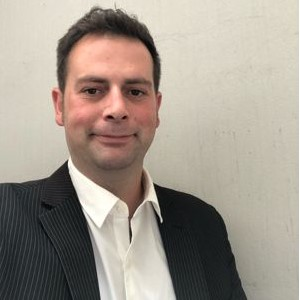
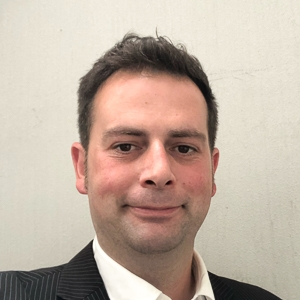
added staff photos, change date picker styles

diff --git a/style.css b/style.css
@@ -165,6 +165,7 @@ form.cart {
 
 h1.product_title.entry-title {
   font-weight: 600;
+  font-size: 2em;
 }
 
 /*
@@ -208,20 +209,6 @@ fieldset.wc-bookings-date-picker.wc-bookings-date-picker-booking.wc_bookings_fie
 
 .wc-bookings-booking-form fieldset input {
   width: 100%;
-}
-
-.wc-bookings-booking-form .block-picker li a.selected, .wc-bookings-booking-form .block-picker li:nth-child(odd) a:focus, .wc-bookings-booking-form .block-picker li:nth-child(odd) a:hover {
-  background: #76974d !important;
-}
-
-table.ui-datepicker-calendar {
-  border: 0;
-}
-
-.wc-bookings-booking-form .wc-bookings-booking-cost {
-  background: #76974d !important;
-  color: #fff;
-  margin: 0 .1px;
 }
 
 div.product-addon {
@@ -295,6 +282,7 @@ button.start-booking-button {
 
 .team img {
   border-radius: 50% 50% 50% 0;
+  border: 2px solid #3e1e00;
 }
 
 /* Checkout */
@@ -499,6 +487,9 @@ button#vscf_send {
     opacity: .7;
   }
   /* Homepage */
+  .site-main {
+    padding-top: 0 !important;
+  }
   #main .storefront-product-section:first-child {
     margin-top: 4em;
   }
@@ -525,7 +516,6 @@ button#vscf_send {
   /* Contact form */
   #contact-area {
     width: 55%;
-    margin: 0 auto;
   }
   /* Footer */
   .cloud1 {

diff --git a/functions.php b/functions.php
@@ -271,10 +271,16 @@ function cocolo_team() {
   			</p>
   			<div class="woocommerce columns-4">
   				<ul class="team-mates products columns-4">
-  					<li class="team-mate product first">
+						<li class="team-mate product first">
   						<a href="<?php echo site_url( '/about/' ); ?>">
-  						<img src="<?php echo get_stylesheet_directory_uri(); ?>/img/staff/axel.jpg" alt="" width="300" height="300" class="alignnone size-medium" />
-  						<h3><?php _e( 'Axel', 'cocotheme'); ?></h3>
+  						<img src="<?php echo get_stylesheet_directory_uri(); ?>/img/staff/maki.jpg" alt="" width="300" height="300" class="alignnone size-medium wp-image-243" />
+  						<h3><?php _e( 'Maki', 'cocotheme'); ?></h3>
+  						</a>
+  					</li>
+  					<li class="team-mate product">
+  						<a href="<?php echo site_url( '/about/' ); ?>">
+  						<img src="<?php echo get_stylesheet_directory_uri(); ?>/img/staff/aiko.jpg" alt="" width="300" height="300" class="alignnone size-medium wp-image-243" />
+  						<h3><?php _e( 'Aiko', 'cocotheme'); ?></h3>
   						</a>
   					</li>
   					<li class="team-mate product">
@@ -283,18 +289,12 @@ function cocolo_team() {
   						<h3><?php _e( 'Pierre', 'cocotheme'); ?></h3>
   						</a>
   					</li>
-  					<li class="team-mate product">
-  						<a href="<?php echo site_url( '/about/' ); ?>">
-  						<img src="<?php echo get_stylesheet_directory_uri(); ?>/img/staff/axel.jpg" alt="" width="300" height="300" class="alignnone size-medium wp-image-243" />
-  						<h3><?php _e( 'Axel', 'cocotheme'); ?></h3>
-  						</a>
-  					</li>
-  					<li class="team-mate product last">
-  						<a href="<?php echo site_url( '/about/' ); ?>">
-  						<img src="<?php echo get_stylesheet_directory_uri(); ?>/img/staff/axel.jpg" alt="" width="300" height="300" class="alignnone size-medium wp-image-243" />
-  						<h3><?php _e( 'Axel', 'cocotheme'); ?></h3>
-  						</a>
-  					</li>
+						<li class="team-mate product last">
+							<a href="<?php echo site_url( '/about/' ); ?>">
+							<img src="<?php echo get_stylesheet_directory_uri(); ?>/img/staff/axel.jpg" alt="" width="300" height="300" class="alignnone size-medium" />
+							<h3><?php _e( 'Axel', 'cocotheme'); ?></h3>
+							</a>
+						</li>
   				</ul>
   			</div>
   		</section>
